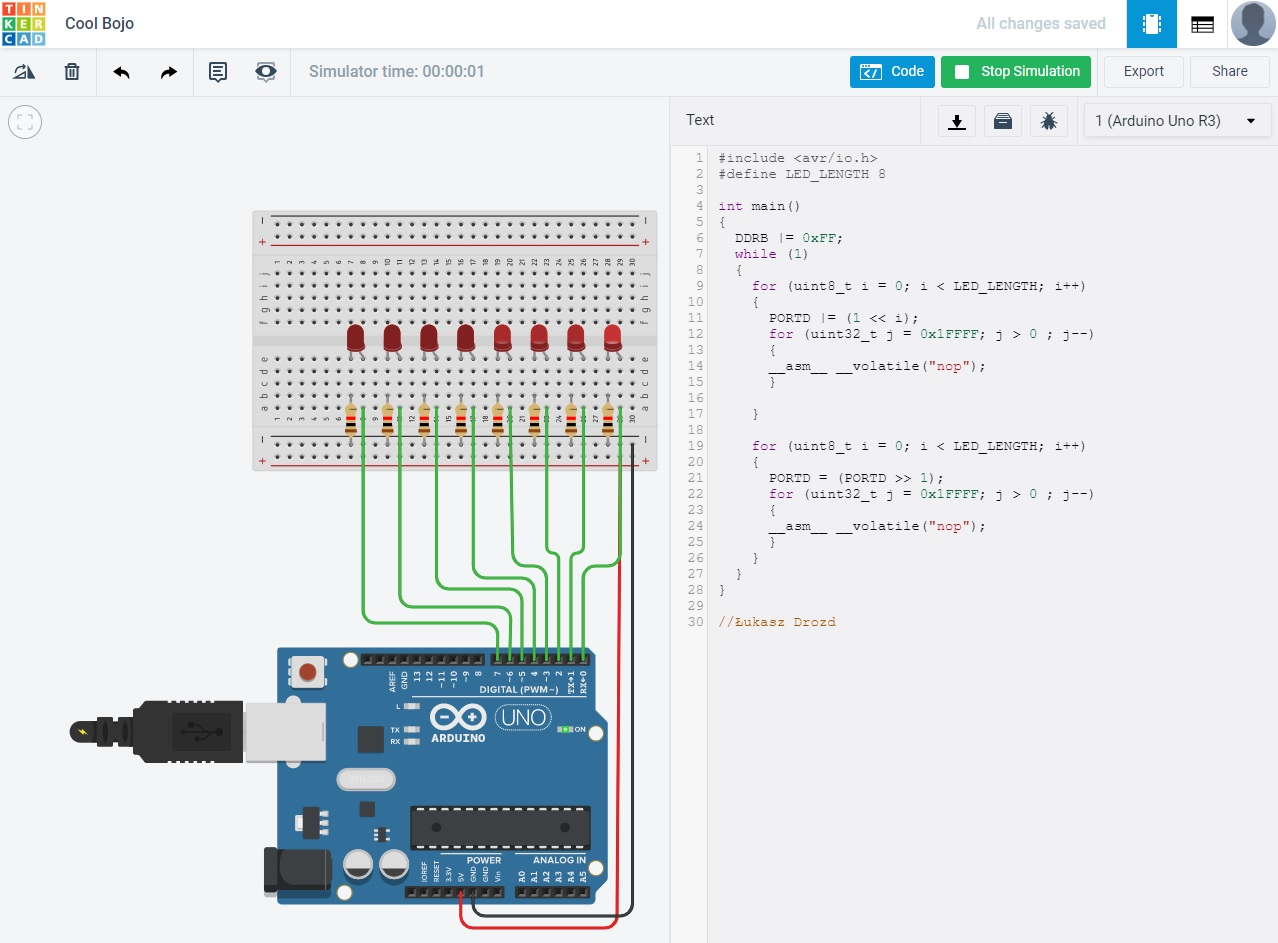
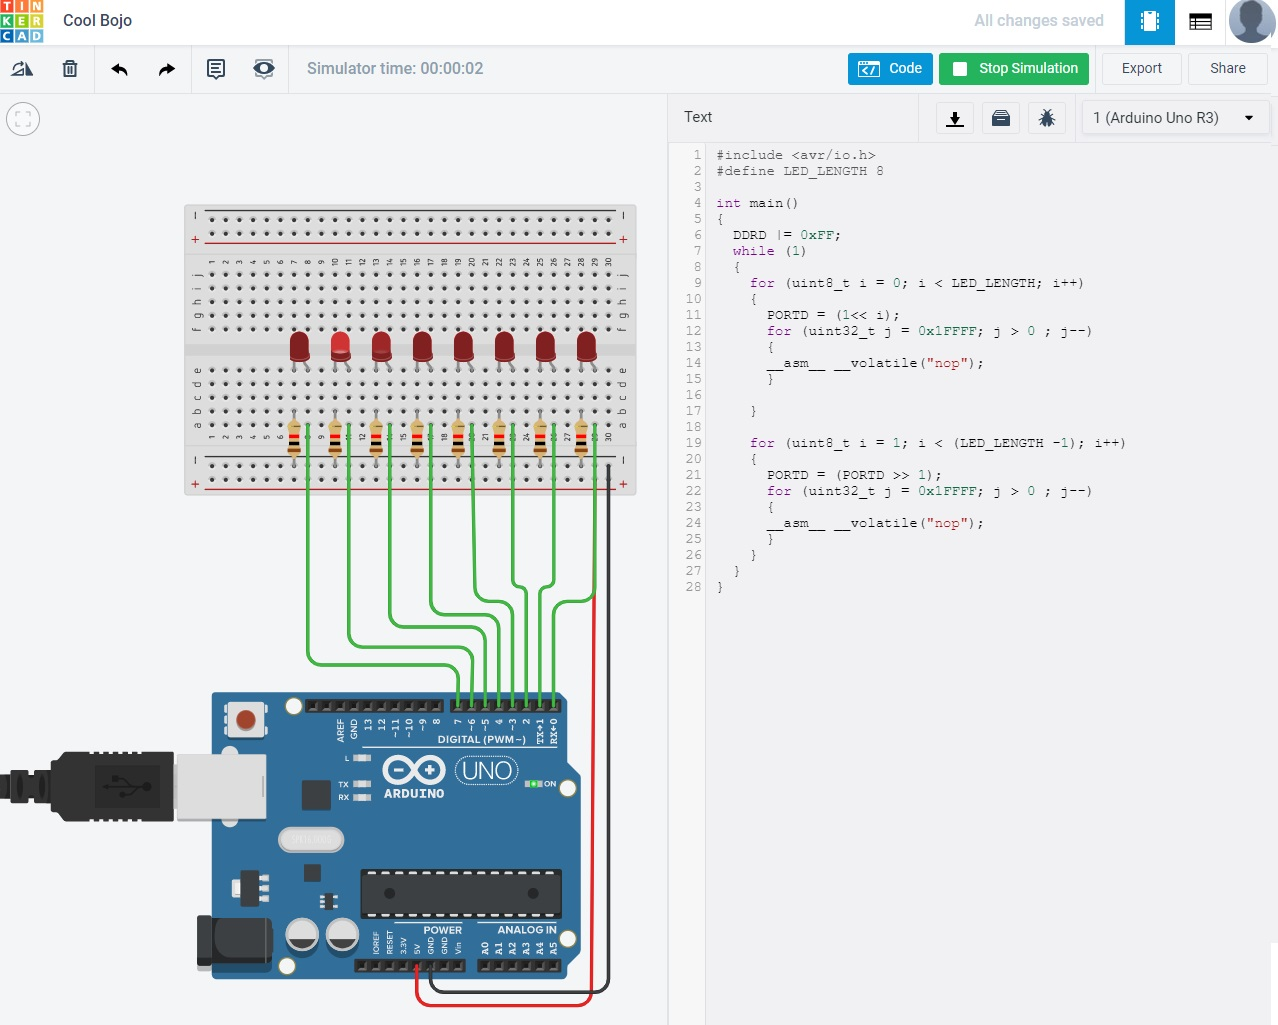
Fix zadania 2.2.2

diff --git a/Zadanie 2.2.2/src/main.cpp b/Zadanie 2.2.2/src/main.cpp
@@ -3,12 +3,12 @@
 
 int main()
 {
-  DDRB |= 0xFF;
+  DDRD |= 0xFF;
   while (1)
   {
     for (uint8_t i = 0; i < LED_LENGTH; i++)
     {
-      PORTD |= (1<<5);
+      PORTD = (1<< i);
       for (uint32_t j = 0x1FFFF; j > 0 ; j--)
       {
       __asm__ __volatile("nop");
@@ -16,7 +16,7 @@ int main()
       
     }
     
-    for (uint8_t i = 0; i < LED_LENGTH; i++)
+    for (uint8_t i = 1; i < (LED_LENGTH -1); i++)
     {
       PORTD = (PORTD >> 1);
       for (uint32_t j = 0x1FFFF; j > 0 ; j--)
